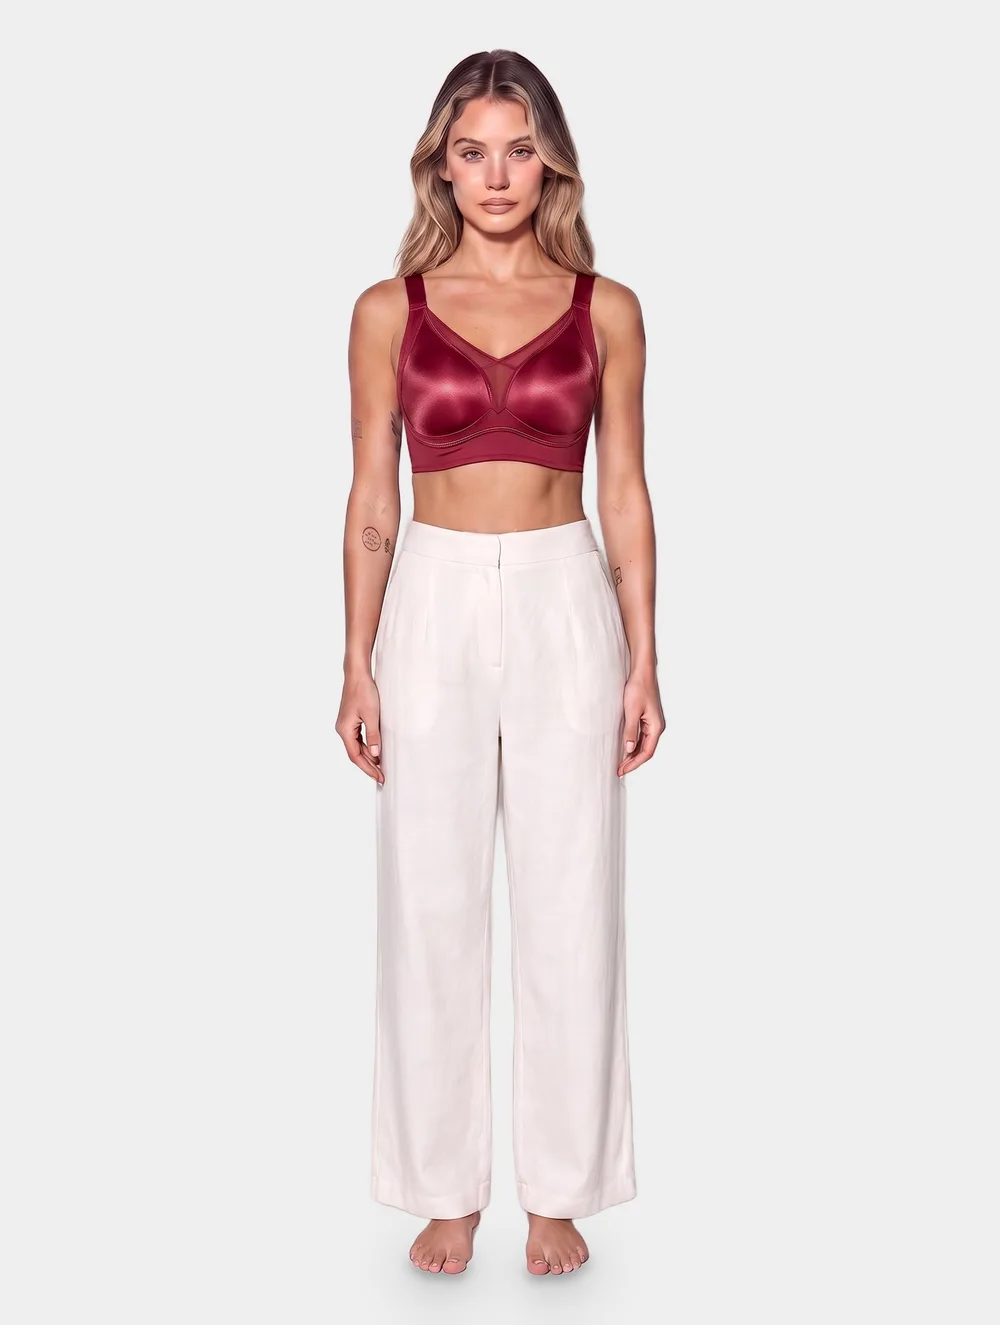
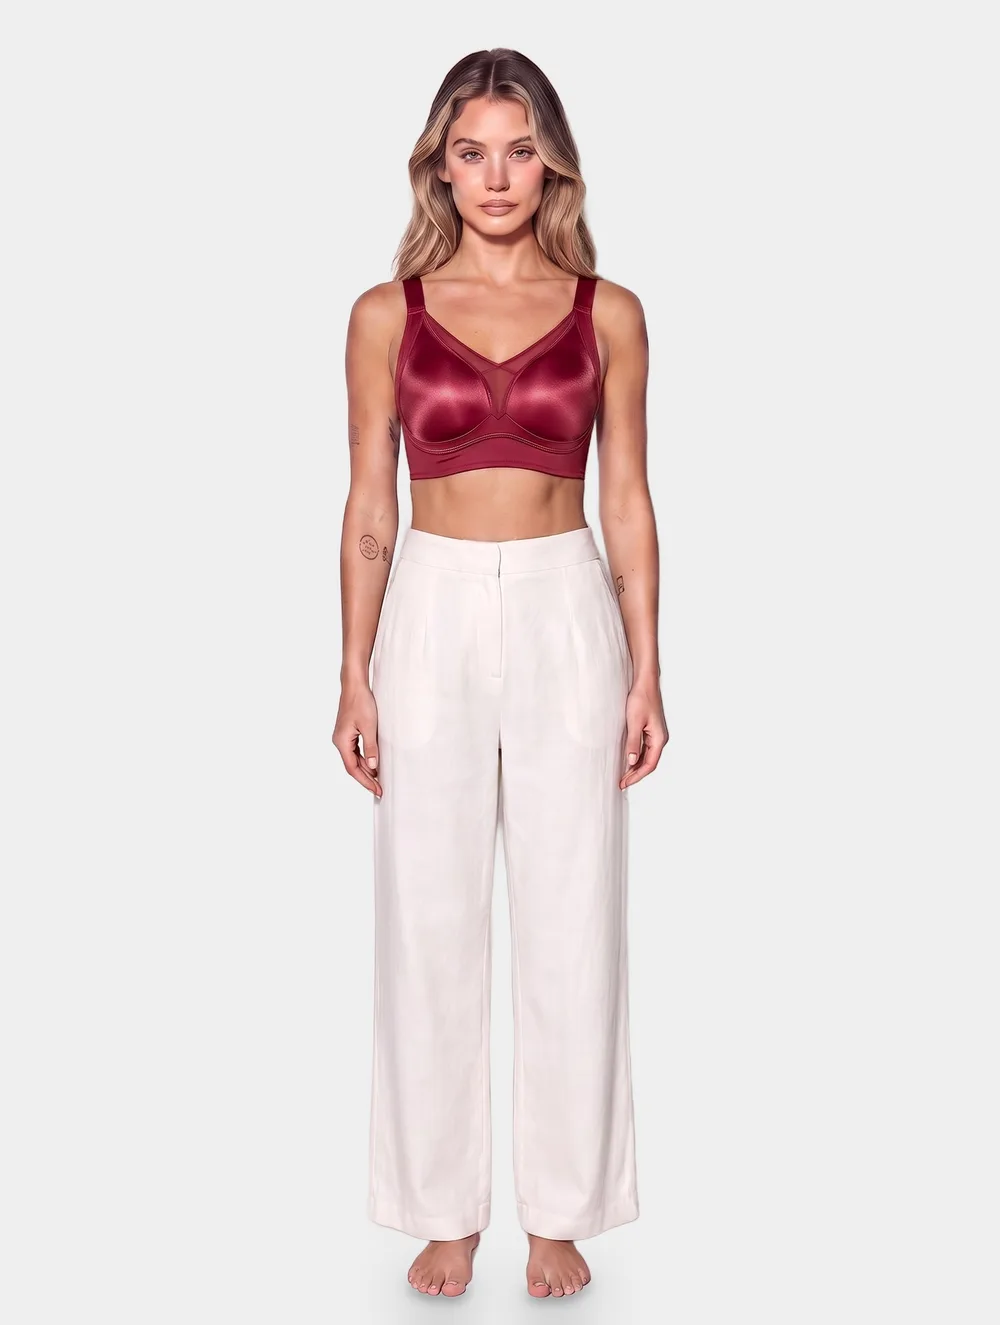
v168: mobile gallery canvas ends at the photo; full-length shots framed a touch closer
- The dots under the mobile gallery sat on the photo's grey backdrop, so the
  canvas ran ~60px past the image: close crops (legs cut at the frame edge)
  looked like the model was floating, and full-length shots read as further
  away than Skims. The dots now sit on the page colour.
- Full-length shots re-framed from 3.7-96.2% to 3.6-97.9% of the frame (feet
  close to the bottom edge, as Skims reads on a phone): replaced in place in
  Shopify for the bodysuit and bra (same media, same filenames); tiles rebuilt.

Claude-Session: https://claude.ai/code/session_015qMQssRjkLz5uwvj6N7v1M

diff --git a/src/lib/tileImages.ts b/src/lib/tileImages.ts
@@ -128,9 +128,9 @@ export const TILE_IMAGES: Record<string, Record<string, string>> = {
   // v166: Skims-style re-shoot (square, flat #EEEEEE); the tile is the new
   // full-length front cropped to the tile shape.
   "seamless-sculpting-bodysuit": {
-    "Coffee": "/tiles/seamless-sculpting-bodysuit-coffee-v2.webp",
-    "Nude": "/tiles/seamless-sculpting-bodysuit-nude-v2.webp",
-    "Black": "/tiles/seamless-sculpting-bodysuit-black-v2.webp",
+    "Coffee": "/tiles/seamless-sculpting-bodysuit-coffee-v3.webp",
+    "Nude": "/tiles/seamless-sculpting-bodysuit-nude-v3.webp",
+    "Black": "/tiles/seamless-sculpting-bodysuit-black-v3.webp",
   },
   "slim-fit-long-sleeve-top": {
     "Nude": "/tiles/slim-fit-long-sleeve-top-nude.webp",

diff --git a/src/routes/product.$handle.tsx b/src/routes/product.$handle.tsx
@@ -998,8 +998,12 @@ function ProductPage() {
               />
             ))}
           </div>
+          {/* Dots sit on the page colour, not the photo's backdrop: the grey
+              canvas must end exactly where the photo ends, or a close crop
+              (legs cut at the frame edge) looks like she is floating above a
+              grey band, and full-length shots read as further away. */}
           {galleryLen > 1 && (
-            <div className="flex justify-center gap-1.5 py-3 lg:hidden">
+            <div className="flex justify-center gap-1.5 bg-background py-3 lg:hidden">
               {activeImages.map((_, i) => (
                 <span
                   key={i}
